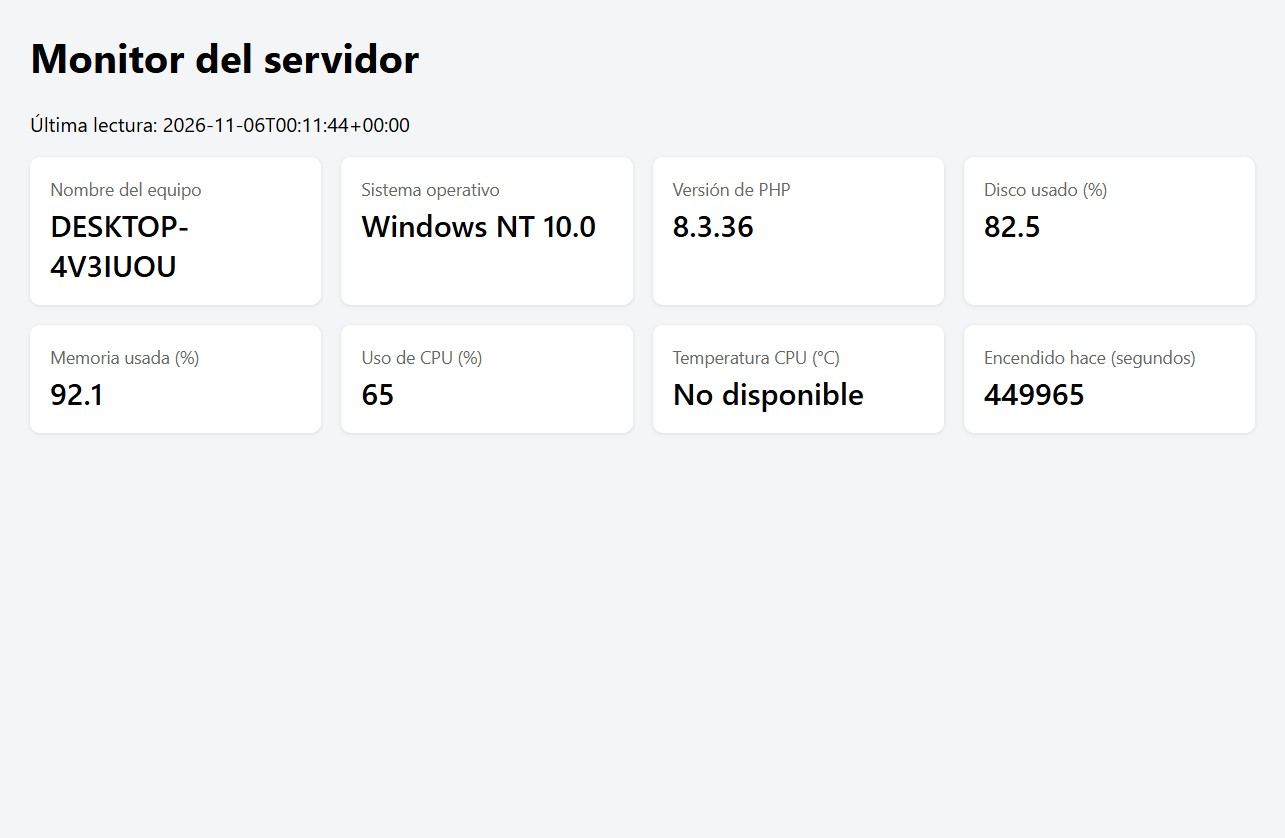
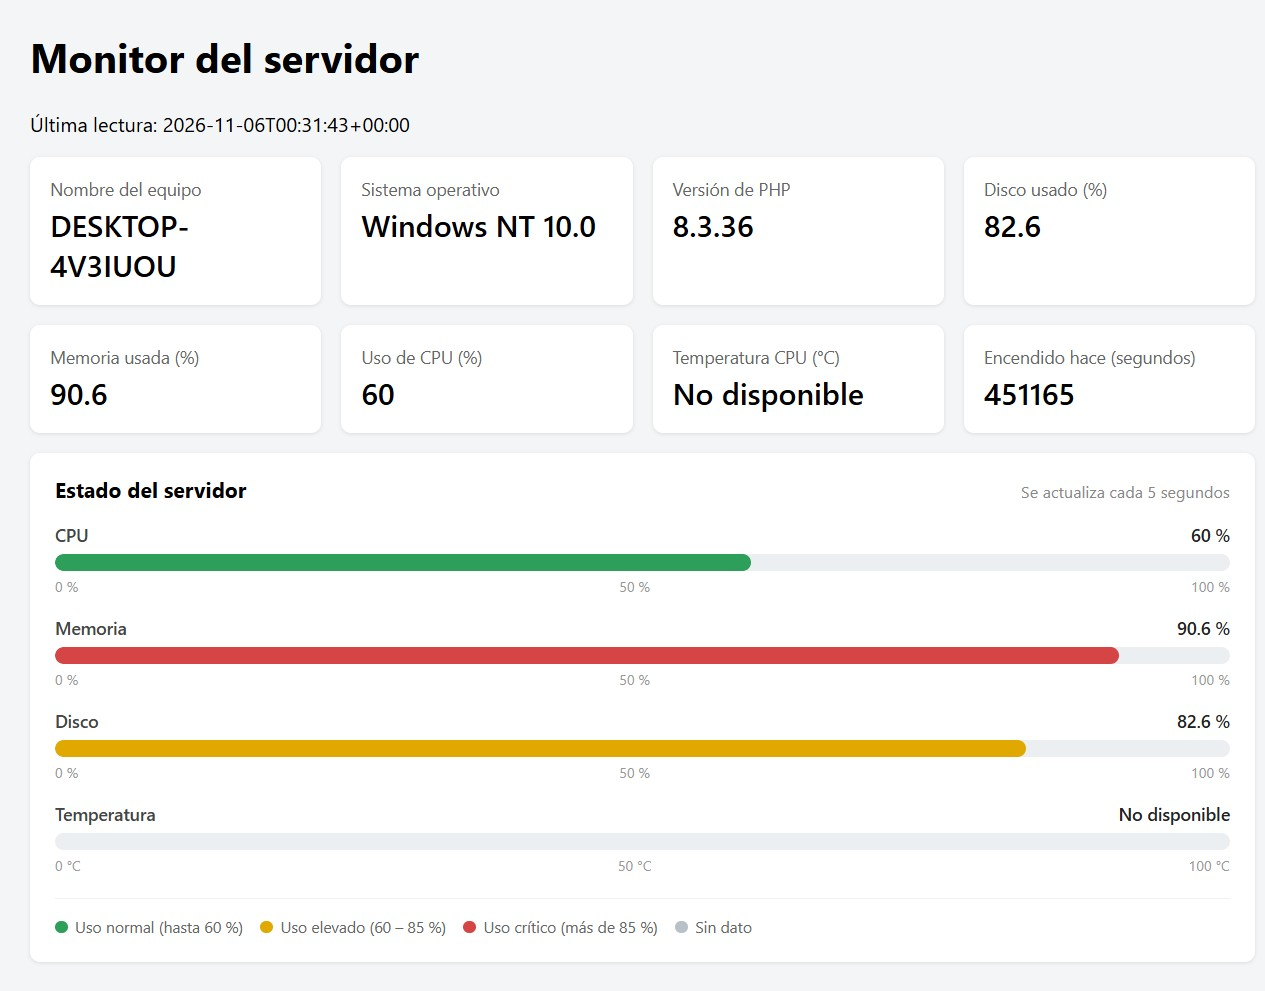
Seccion Estado del servidor con barras de uso y su captura

diff --git a/resources/views/servidor.blade.php b/resources/views/servidor.blade.php
@@ -12,6 +12,7 @@
             padding: 24px;
         }
         h1 { margin-top: 0; }
+        h2 { font-size: 17px; margin: 0; }
         .grid {
             display: grid;
             grid-template-columns: repeat(auto-fit, minmax(220px, 1fr));
@@ -25,6 +26,70 @@
         }
         .label { color: #666; font-size: 14px; }
         .value { font-size: 24px; font-weight: 600; margin-top: 4px; }
+
+        /* --- Estado del servidor: barras de uso --- */
+        .estado {
+            background: #fff;
+            border-radius: 8px;
+            padding: 18px 20px 20px;
+            box-shadow: 0 1px 3px rgba(0,0,0,.1);
+            margin-top: 16px;
+        }
+        .estado-head {
+            display: flex;
+            justify-content: space-between;
+            align-items: baseline;
+            gap: 12px;
+            flex-wrap: wrap;
+            margin-bottom: 16px;
+        }
+        .estado-head .hint { color: #888; font-size: 13px; }
+        .metric { margin-bottom: 16px; }
+        .metric:last-child { margin-bottom: 0; }
+        .metric-head {
+            display: flex;
+            justify-content: space-between;
+            align-items: baseline;
+            font-size: 14px;
+            margin-bottom: 6px;
+        }
+        .metric-name { color: #444; font-weight: 500; }
+        .metric-val { color: #222; font-weight: 600; font-variant-numeric: tabular-nums; }
+        .track {
+            height: 14px;
+            background: #eceff2;
+            border-radius: 999px;
+            overflow: hidden;
+        }
+        .fill {
+            height: 100%;
+            width: 0;
+            border-radius: 999px;
+            transition: width .6s ease, background-color .3s ease;
+        }
+        .fill.ok   { background: #2e9e5b; }
+        .fill.warn { background: #e0a800; }
+        .fill.bad  { background: #d64545; }
+        .fill.na   { background: #b9c0c7; }
+        .scale {
+            display: flex;
+            justify-content: space-between;
+            color: #999;
+            font-size: 11.5px;
+            margin-top: 4px;
+        }
+        .legend {
+            display: flex;
+            gap: 14px;
+            flex-wrap: wrap;
+            font-size: 12.5px;
+            color: #666;
+            margin-top: 18px;
+            padding-top: 14px;
+            border-top: 1px solid #f0f1f3;
+        }
+        .legend span { display: inline-flex; align-items: center; gap: 6px; }
+        .dot { width: 10px; height: 10px; border-radius: 50%; display: inline-block; }
     </style>
 </head>
 <body>
@@ -64,7 +129,83 @@
         <div class="value" id="uptime">{{ $data['uptime_s'] ?? 'No disponible' }}</div>
     </div>
 </div>
+
+<section class="estado">
+    <div class="estado-head">
+        <h2>Estado del servidor</h2>
+        <span class="hint">Se actualiza cada 5 segundos</span>
+    </div>
+
+    <div class="metric">
+        <div class="metric-head">
+            <span class="metric-name">CPU</span>
+            <span class="metric-val" id="val-cpu">{{ $data['cpu_pct'] ?? 'No disponible' }}</span>
+        </div>
+        <div class="track"><div class="fill" id="bar-cpu" style="width: {{ $data['cpu_pct'] ?? 0 }}%"></div></div>
+        <div class="scale"><span>0 %</span><span>50 %</span><span>100 %</span></div>
+    </div>
+
+    <div class="metric">
+        <div class="metric-head">
+            <span class="metric-name">Memoria</span>
+            <span class="metric-val" id="val-mem">{{ $data['memory']['used_pct'] ?? 'No disponible' }}</span>
+        </div>
+        <div class="track"><div class="fill" id="bar-mem" style="width: {{ $data['memory']['used_pct'] ?? 0 }}%"></div></div>
+        <div class="scale"><span>0 %</span><span>50 %</span><span>100 %</span></div>
+    </div>
+
+    <div class="metric">
+        <div class="metric-head">
+            <span class="metric-name">Disco</span>
+            <span class="metric-val" id="val-disk">{{ $data['disk']['used_pct'] }}%</span>
+        </div>
+        <div class="track"><div class="fill" id="bar-disk" style="width: {{ $data['disk']['used_pct'] }}%"></div></div>
+        <div class="scale"><span>0 %</span><span>50 %</span><span>100 %</span></div>
+    </div>
+
+    <div class="metric">
+        <div class="metric-head">
+            <span class="metric-name">Temperatura</span>
+            <span class="metric-val" id="val-temp">{{ $data['cpu_temp_c'] !== null ? $data['cpu_temp_c'].' °C' : 'No disponible' }}</span>
+        </div>
+        <div class="track"><div class="fill" id="bar-temp" style="width: {{ $data['cpu_temp_c'] ?? 0 }}%"></div></div>
+        <div class="scale"><span>0 °C</span><span>50 °C</span><span>100 °C</span></div>
+    </div>
+
+    <div class="legend">
+        <span><i class="dot" style="background:#2e9e5b"></i> Uso normal (hasta 60 %)</span>
+        <span><i class="dot" style="background:#e0a800"></i> Uso elevado (60 – 85 %)</span>
+        <span><i class="dot" style="background:#d64545"></i> Uso crítico (más de 85 %)</span>
+        <span><i class="dot" style="background:#b9c0c7"></i> Sin dato</span>
+    </div>
+</section>
+
 <script>
+    // Pinta una barra: ancho, color según el tramo y texto del valor.
+    function barra(fillId, valId, pct, texto) {
+        const fill = document.getElementById(fillId);
+        const val = document.getElementById(valId);
+
+        if (pct === null || pct === undefined || isNaN(pct)) {
+            fill.style.width = '0%';
+            fill.className = 'fill na';
+            val.textContent = 'No disponible';
+            return;
+        }
+
+        const p = Math.max(0, Math.min(100, Number(pct)));
+        fill.style.width = p + '%';
+        fill.className = 'fill ' + (p > 85 ? 'bad' : p > 60 ? 'warn' : 'ok');
+        val.textContent = texto;
+    }
+
+    function pintar(d) {
+        barra('bar-cpu', 'val-cpu', d.cpu_pct, d.cpu_pct != null ? d.cpu_pct + ' %' : null);
+        barra('bar-mem', 'val-mem', d.memory?.used_pct, d.memory?.used_pct != null ? d.memory.used_pct + ' %' : null);
+        barra('bar-disk', 'val-disk', d.disk?.used_pct, d.disk?.used_pct != null ? d.disk.used_pct + ' %' : null);
+        barra('bar-temp', 'val-temp', d.cpu_temp_c, d.cpu_temp_c != null ? d.cpu_temp_c + ' °C' : null);
+    }
+
     async function actualizar() {
         const res = await fetch('/api/metrics');
         const d = await res.json();
@@ -74,7 +215,10 @@
         document.getElementById('cpu').textContent = d.cpu_pct ?? 'No disponible';
         document.getElementById('temp').textContent = d.cpu_temp_c ?? 'No disponible';
         document.getElementById('uptime').textContent = d.uptime_s ?? 'No disponible';
+        pintar(d);
     }
+
+    pintar(@json($data));
     setInterval(actualizar, 5000); // cada 5 segundos
 </script>
 </body>

diff --git a/README.md b/README.md
@@ -68,7 +68,7 @@ Luego abrir:
 |---|---|---|
 | **Service** | `app/Services/ServerMetrics.php` | *Cómo* se obtienen los datos. Única clase que habla con el SO. |
 | **Controlador** | `app/Http/Controllers/ServerController.php` | *Qué* se responde y en *qué formato*: vista o JSON. |
-| **Vista** | `resources/views/servidor.blade.php` | *Cómo* se muestran los datos (tarjetas + polling). |
+| **Vista** | `resources/views/servidor.blade.php` | *Cómo* se muestran los datos: tarjetas, barras de uso y polling. |
 | **Rutas** | `routes/web.php`, `routes/api.php` | `/servidor` y `/api/metrics`. |
 
 El controlador recibe el service por **inyección de dependencias**: al declarar `index(ServerMetrics $metrics)`, Laravel lo crea y lo pasa automáticamente (service container). No se usa `new`.
@@ -136,6 +136,23 @@ Todas las capturas se tomaron contra el servidor corriendo en `http://127.0.0.1:
 ### Vista web `/servidor`
 
 ![Vista del monitor del servidor](docs/capturas/servidor.jpeg)
+
+### Estado del servidor — barras de uso
+
+Debajo de las tarjetas, cada métrica se representa con una barra que se colorea según el tramo de uso:
+
+![Sección Estado del servidor con barras de CPU, memoria, disco y temperatura](docs/capturas/estado-servidor.jpeg)
+
+| Barra | Origen | Rango |
+|---|---|---|
+| CPU | WMI `Win32_Processor` (`LoadPercentage`) | 0 – 100 % |
+| Memoria | WMI `Win32_OperatingSystem` | 0 – 100 % |
+| Disco | `disk_total_space()` / `disk_free_space()` | 0 – 100 % |
+| Temperatura | WMI `MSAcpi_ThermalZoneTemperature` | 0 – 100 °C |
+
+Colores según el valor: **verde** hasta 60 %, **ámbar** de 60 a 85 %, **rojo** por encima de 85 % y **gris** cuando no hay dato. La temperatura aparece en gris porque requiere iniciar el servidor como administrador (ver pregunta 1).
+
+Las barras se actualizan en el mismo `setInterval` de 5 segundos que usa el resto de la vista.
 
 ### Respuesta de `/api/metrics`
 
